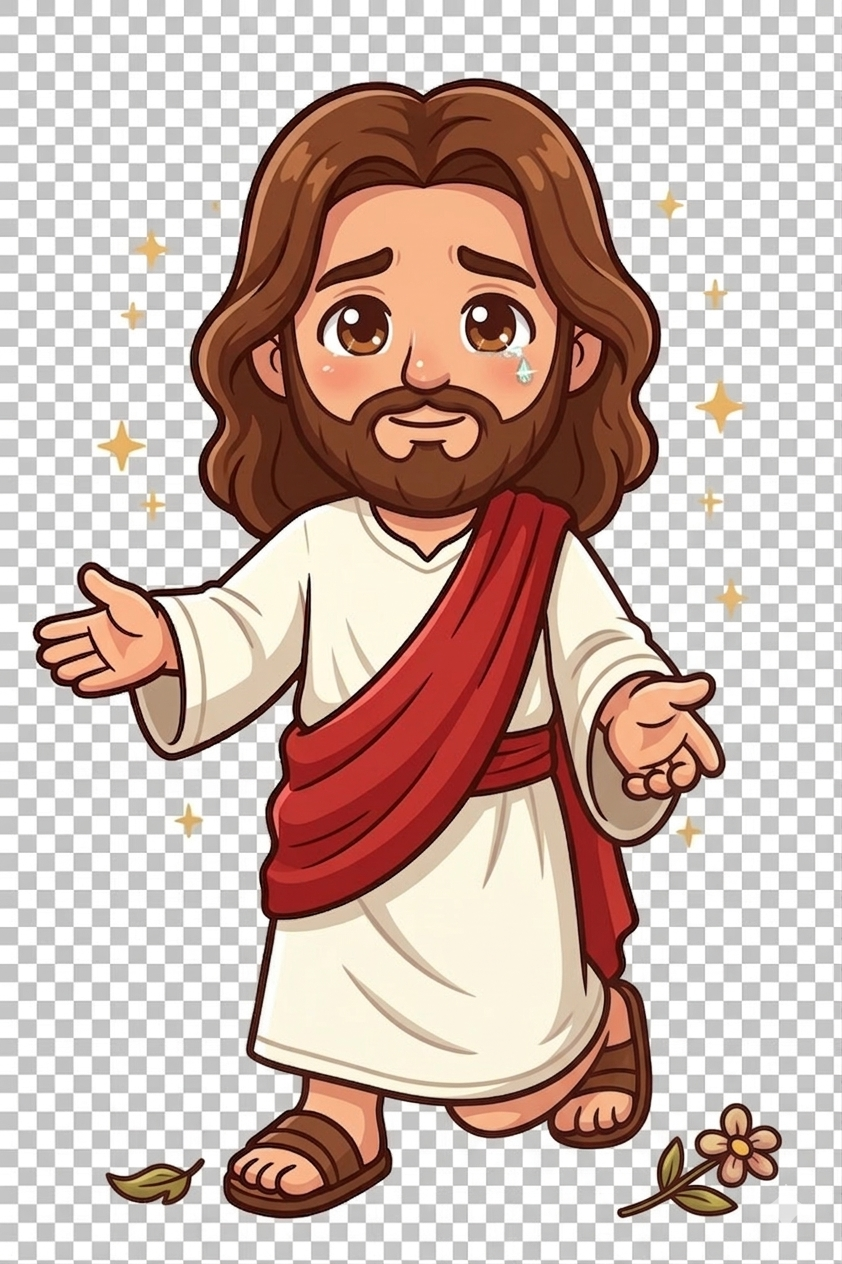
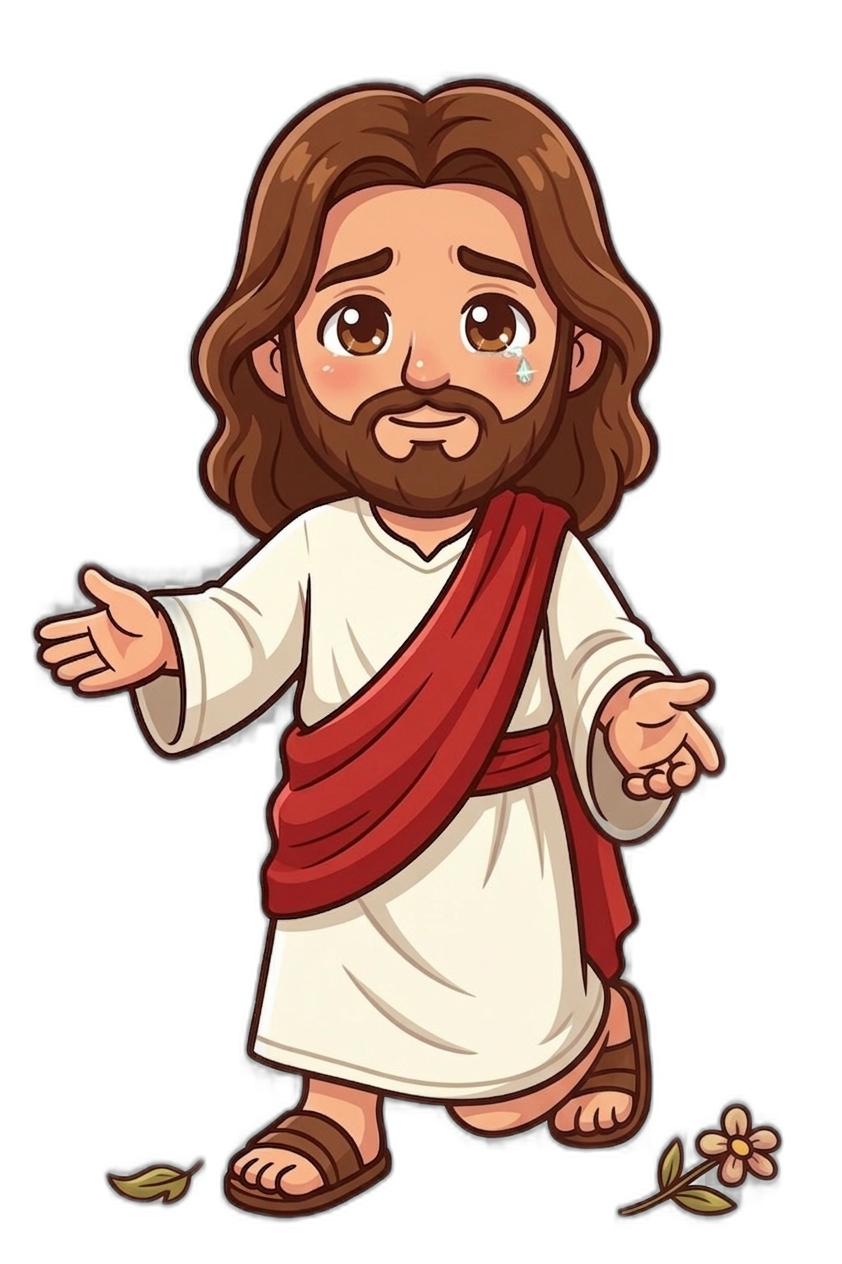
fix: QA widget Jesús - sprites, overflow y mensajes
Sprites (10 PNGs):
- Eliminado fondo de cuadrícula (checkerboard) baked-in usando rembg (AI)
- Archivos reducidos de ~7MB a ~300KB c/u con transparencia real

Widget (jesus_streak_widget.dart):
- Fix RenderFlex overflow en números >= 10 (fontSize adaptativo: 48/42/36)
- Fix truncamiento de texto: maxLines 2→3, fontSize 13→12
- Label 'DÍAS' con letterSpacing adaptativo (1.5 / 0.5)
- Ocultar 'DE VICTORIA' para streaks >= 100 o >= 10 con badge Hoy
- Badge 'Hoy' compacto (solo icono) para >= 100 días
- Spacer removido antes del badge para mejor distribución

Servicio (jesus_widget_service.dart):
- Fix mensaje Día 200: '¡100 días...' → '¡$streakDays días...'

HomeScreen:
- Restaurado widget de producción (debug grid removido)
- onTapCard navega a ProgressScreen

diff --git a/lib/widgets/jesus_streak_widget.dart b/lib/widgets/jesus_streak_widget.dart
@@ -141,12 +141,12 @@ class JesusStreakWidget extends StatelessWidget {
                           Text(
                             message,
                             style: GoogleFonts.manrope(
-                              fontSize: 13,
+                              fontSize: 12,
                               fontWeight: FontWeight.w500,
                               color: Colors.white.withOpacity(0.9),
                               height: 1.3,
                             ),
-                            maxLines: 2,
+                            maxLines: 3,
                             overflow: TextOverflow.ellipsis,
                           ),
 
@@ -209,7 +209,7 @@ class JesusStreakWidget extends StatelessWidget {
           Text(
             isNewUser ? '0' : '$streakDays',
             style: GoogleFonts.cinzel(
-              fontSize: 48,
+              fontSize: streakDays >= 100 ? 36.0 : (streakDays >= 10 ? 42.0 : 48.0),
               fontWeight: FontWeight.w900,
               color: Colors.white,
               height: 1,
@@ -217,40 +217,48 @@ class JesusStreakWidget extends StatelessWidget {
           ),
           const SizedBox(width: 8),
           // Label
-          Padding(
-            padding: const EdgeInsets.only(bottom: 8),
-            child: Column(
-              crossAxisAlignment: CrossAxisAlignment.start,
-              mainAxisSize: MainAxisSize.min,
-              children: [
-                Text(
-                  streakDays == 1 ? 'DÍA' : 'DÍAS',
-                  style: GoogleFonts.manrope(
-                    fontSize: 11,
-                    fontWeight: FontWeight.w800,
-                    letterSpacing: 2,
-                    color: streakColor,
+          Flexible(
+            child: Padding(
+              padding: const EdgeInsets.only(bottom: 8),
+              child: Column(
+                crossAxisAlignment: CrossAxisAlignment.start,
+                mainAxisSize: MainAxisSize.min,
+                children: [
+                  Text(
+                    streakDays == 1 ? 'DÍA' : 'DÍAS',
+                    style: GoogleFonts.manrope(
+                      fontSize: 11,
+                      fontWeight: FontWeight.w800,
+                      letterSpacing: streakDays >= 10 ? 0.5 : 1.5,
+                      color: streakColor,
+                    ),
+                    maxLines: 1,
                   ),
-                ),
-                Text(
-                  'DE VICTORIA',
-                  style: GoogleFonts.manrope(
-                    fontSize: 9,
-                    fontWeight: FontWeight.w600,
-                    letterSpacing: 1.5,
-                    color: Colors.white.withOpacity(0.6),
+                  if (streakDays < 100 && !(completedToday && streakDays >= 10))
+                    Text(
+                      'DE VICTORIA',
+                      style: GoogleFonts.manrope(
+                        fontSize: 9,
+                        fontWeight: FontWeight.w600,
+                        color: Colors.white.withOpacity(0.6),
+                      ),
+                      maxLines: 1,
+                      overflow: TextOverflow.ellipsis,
                   ),
-                ),
-              ],
+                ],
+              ),
             ),
           ),
         ],
 
         // Badge "Hoy ✓"
         if (completedToday && !isLoading) ...[
-          const Spacer(),
+          const SizedBox(width: 4),
           Container(
-            padding: const EdgeInsets.symmetric(horizontal: 8, vertical: 4),
+            padding: EdgeInsets.symmetric(
+              horizontal: streakDays >= 100 ? 6 : 8,
+              vertical: 4,
+            ),
             decoration: BoxDecoration(
               color: const Color(0xFF4CAF50).withOpacity(0.25),
               borderRadius: BorderRadius.circular(10),
@@ -258,19 +266,21 @@ class JesusStreakWidget extends StatelessWidget {
                 color: const Color(0xFF4CAF50).withOpacity(0.5),
               ),
             ),
-            child: const Row(
+            child: Row(
               mainAxisSize: MainAxisSize.min,
               children: [
-                Icon(Icons.check_circle, size: 12, color: Color(0xFF4CAF50)),
-                SizedBox(width: 3),
-                Text(
-                  'Hoy',
-                  style: TextStyle(
-                    fontSize: 10,
-                    fontWeight: FontWeight.w700,
-                    color: Color(0xFF4CAF50),
+                const Icon(Icons.check_circle, size: 12, color: Color(0xFF4CAF50)),
+                if (streakDays < 100) ...[
+                  const SizedBox(width: 3),
+                  const Text(
+                    'Hoy',
+                    style: TextStyle(
+                      fontSize: 10,
+                      fontWeight: FontWeight.w700,
+                      color: Color(0xFF4CAF50),
+                    ),
                   ),
-                ),
+                ],
               ],
             ),
           )

diff --git a/lib/screens/home_screen.dart b/lib/screens/home_screen.dart
@@ -362,12 +362,7 @@ class _HomeScreenState extends State<HomeScreen> with TickerProviderStateMixin, 
                 // ═══════════════════════════════════════════════════════════════
                 SliverToBoxAdapter(
                   child: Padding(
-                    padding: const EdgeInsets.fromLTRB(
-                      AppDesignSystem.spacingM,
-                      AppDesignSystem.spacingM,
-                      AppDesignSystem.spacingM,
-                      0,
-                    ),
+                    padding: const EdgeInsets.fromLTRB(16, 8, 16, 0),
                     child: JesusStreakWidget(
                       streakDays: _currentStreak,
                       completedToday: _loggedToday,

diff --git a/lib/services/jesus_widget_service.dart b/lib/services/jesus_widget_service.dart
@@ -110,7 +110,7 @@ class JesusWidgetService {
 
     if (completedToday) {
       if (streakDays >= 365) return '¡Un año caminando conmigo!\n¡Eres un guerrero eterno!';
-      if (streakDays >= 100) return '¡100 días de victoria!\n¡Centurión de la fe!';
+      if (streakDays >= 100) return '¡$streakDays días de victoria!\n¡Centurión de la fe!';
       if (streakDays >= 30) return '¡Un mes entero!\nTu armadura brilla';
       if (streakDays >= 7) return '¡Una semana completa!\n¡Sigue adelante!';
       return '¡Victoria de hoy registrada!\n¡Bien hecho, soldado!';
